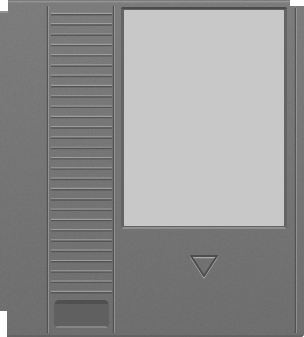
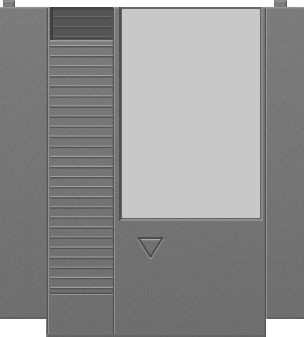
Give the NES cart its top tabs, grip pocket and stepped foot
From the user's second set of references: the NES cart now has a tab
standing above its top edge near each corner, a pocket at the top of the
grip, its label recess open to the top edge, the rails stopping short of
the foot so the middle runs on, a plain panel under the grip, and the arrow
about mid-width. The SNES cart gains the shallow box under its slot that
makes the T.

diff --git a/tools/fragile/media/draw_carts.py b/tools/fragile/media/draw_carts.py
@@ -211,6 +211,11 @@ def snes():
     c.rrect(70, 142, 290, 158, 8, 120 - 50)
     c.rrect(72, 142, 288, 147, 6, 40, alpha=0.7)
     c.rrect(76, 156, 284, 158, 2, LIGHT, alpha=0.45)
+    # Under it, a shallow box down the middle, so the two make a T.
+    c.rrect(148, 156, 212, 214, 4, 104, alpha=0.8, radii=(0, 0, 4, 4))
+    c.rrect(148, 156, 150.5, 214, 0, SHADE, alpha=0.6)
+    c.rrect(148, 211.5, 212, 214, 0, LIGHT, alpha=0.5, radii=(0, 0, 4, 4))
+    c.rrect(209.5, 156, 212, 212, 0, LIGHT, alpha=0.4)
     for x in (31, 329):
         c.circle(x, 216, 6.5, 150)
         c.circle(x, 216, 5.2, 46)
@@ -222,36 +227,55 @@ def nes():
     W, H = 304, 337
     c = Canvas(W, H)
     body = plastic(H, top=124, bottom=110, seed=3)
-    c.rrect(0, 0, W, H, 3, body, outline=True)
-    # The notches in its edges.
-    c.clear(0, 0, 8, 11)
-    c.clear(W - 14, 0, W, 6)
-    c.clear(0, H - 26, 7, H)
-    c.rrect(0, 11, 8, 13, 0, LIGHT, alpha=0.5)
-    c.rrect(1, 1, W - 14, 2.5, 0, LIGHT, alpha=0.5)
-    c.rrect(0, H - 2, W, H, 0, 92, alpha=0.6)
+    top = 7  # the top edge, with a tab standing above it near each corner
+    c.rrect(0, top, W, H, 2, body, outline=True)
+    for x0, x1 in ((3, 15), (W - 30, W - 17)):
+        c.rrect(x0, 0, x1, top + 1, 1, body, outline=True, radii=(1, 1, 0, 0))
+        c.rrect(x0 + 1, 0.5, x1 - 1, 1.8, 0, LIGHT, alpha=0.6)
+        c.rrect(x1 - 1.5, 1, x1, top, 0, SHADE, alpha=0.6)
+    c.rrect(1, top, W - 1, top + 1.5, 0, LIGHT, alpha=0.5)
+    # The foot: the rails either side stop short of the middle, which runs on into the console.
+    foot = H - 18
+    left_rail, right_rail = 46, 266
+    c.clear(0, foot, left_rail, H)
+    c.clear(right_rail, foot, W, H)
+    c.rrect(0, foot - 2, left_rail, foot, 0, 92, alpha=0.6)
+    c.rrect(right_rail, foot - 2, W, foot, 0, 92, alpha=0.6)
+    c.rrect(left_rail, H - 2, right_rail, H, 0, 92, alpha=0.6)
+    c.rrect(left_rail, foot, left_rail + 1.5, H, 0, LIGHT, alpha=0.4)
+    c.rrect(right_rail - 1.5, foot, right_rail, H, 0, SHADE, alpha=0.6)
     # The plain rail down the left, then the ribbed grip.
-    groove_v(c, 48, 6, H - 4)
-    gx0, gx1, gy0, gy1 = 50, 113, 14, 292
-    ribs = 27
+    gx0, gx1 = 49, 114
+    groove_v(c, gx0 - 1, top + 1, H - 3)
+    groove_v(c, gx1, top + 1, H - 3)
+    # A pocket at the top of the grip, open at the top edge, with ribs down inside it.
+    pocket = 40
+    c.rrect(gx0 + 1, top, gx1 - 1, pocket, 0, 84)
+    c.rrect(gx0 + 1, top, gx0 + 4, pocket, 0, 56, alpha=0.7)
+    c.rrect(gx0 + 1, top, gx1 - 1, top + 3, 0, 60, alpha=0.6)
+    for k in range(3):
+        y = top + 9 + k * 10
+        c.rrect(gx0 + 5, y, gx1 - 3, y + 1.2, 0, 112, alpha=0.8)
+        c.rrect(gx0 + 5, y + 1.2, gx1 - 3, y + 2.4, 0, 60, alpha=0.7)
+    c.rrect(gx0 + 1, pocket, gx1 - 1, pocket + 1.5, 0, LIGHT, alpha=0.7)
+    gy0, gy1 = pocket + 6, 288
+    ribs = 24
     pitch = (gy1 - gy0) / ribs
     for k in range(ribs + 1):
         raised_h(c, gx0 + 1, gx1 - 1, gy0 + k * pitch)
-    groove_v(c, 114, 6, H - 4)
-    # The finger well under the grip.
-    c.rrect(54, 300, 109, 328, 5, 96)
-    c.rrect(55, 300, 108, 304, 4, 70, alpha=0.6)
-    c.rrect(56, 326, 107, 328, 2, LIGHT, alpha=0.5)
-    # The label, in its recess.
-    lx0, ly0, lx1, ly1 = 124, 10, 284, 226
-    c.rrect(lx0 - 3, ly0 - 3, lx1 + 3, ly1 + 3, 3, 98, alpha=0.9)
-    c.rrect(lx0 - 3, ly0 - 3, lx1 + 3, ly0 - 1, 2, 70, alpha=0.8)
+    # The plain panel at the foot of the grip.
+    groove_h(c, gx0 + 1, gx1 - 1, gy1 + 6)
+    # The label, in a recess that runs up to the top edge.
+    lx0, ly0, lx1, ly1 = 122, top + 2, 260, 218
+    c.rrect(lx0 - 3, top, lx1 + 3, ly1 + 3, 0, 98, alpha=0.9, radii=(0, 0, 3, 3))
+    c.rrect(lx0 - 3, top, lx0 - 1, ly1 + 3, 0, 70, alpha=0.7)
     c.rrect(lx0 - 2, ly1 + 1, lx1 + 2, ly1 + 3, 2, LIGHT, alpha=0.6)
+    c.rrect(lx1 + 1, top, lx1 + 3, ly1 + 3, 0, LIGHT, alpha=0.5)
     c.rrect(lx0, ly0, lx1, ly1, 1, 200)
-    # The rail down the right, and the arrow pressed in under the label.
-    groove_v(c, W - 8, 8, H - 4)
-    mid = (lx0 + lx1) / 2
-    tri = [(mid - 13, 256.0), (mid + 13, 256.0), (mid, 276.0)]
+    # The rail down the right, and the arrow pressed in about mid-width.
+    groove_v(c, right_rail, top + 1, foot)
+    mid = W * 0.495
+    tri = [(mid - 12, 238.0), (mid + 12, 238.0), (mid, 257.0)]
     c.tri_outline([(x, y + 1.2) for x, y in tri], 2.0, LIGHT)
     c.tri_outline(tri, 2.0, SHADE)
     return c, (lx0, ly0, lx1 - lx0, ly1 - ly0), None

diff --git a/crates/slot-ui/src/media.rs b/crates/slot-ui/src/media.rs
@@ -31,7 +31,7 @@ const ART: [Art; Media::COUNT] = [
         png: include_bytes!("../../../assets/nes_neutral.png"),
         w: 304,
         h: 337,
-        label: (124, 10, 160, 216),
+        label: (122, 9, 138, 209),
         sticker: None,
         colour: [0x8a, 0x8a, 0x8e],
     },
